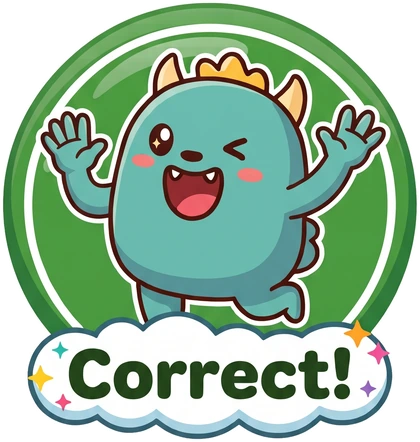
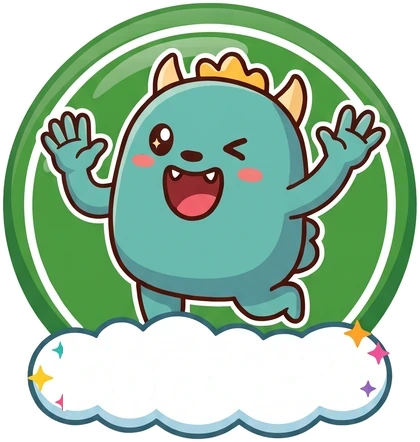
Right and wrong: the app writes the word on the cloud
The pictures' baked-in "Correct!" and "Wrong" are erased (only the
dark letter pixels, so the confetti and sparkles stay). The word is
always drawn by the app in one style, so English, Filipino and Ilokano
look the same instead of a white patch laid over the picture.

Changed region(s): [[0.1238, 0.7647, 0.8357, 0.9412]]

diff --git a/lib/widgets/answer_feedback.dart b/lib/widgets/answer_feedback.dart
@@ -113,20 +113,19 @@ class _AnswerFeedbackState extends State<AnswerFeedback>
   }
 
   /// Right and wrong as the team drew them: the mascot cheering in a green
-  /// circle, or crying in a red one, over a cloud saying "Correct!" or
-  /// "Wrong". In another language the cloud's words are covered with
-  /// [AnswerFeedback.message].
+  /// circle, or crying in a red one, over a cloud with the word on it.
+  ///
+  /// The word is written by the app, not the picture: the pictures' own
+  /// "Correct!" and "Wrong" were erased, so "Tama!", "Kusto!" or "Mali" look
+  /// exactly like the English instead of a patch laid over a picture.
   Widget _pictureBadge(double t) {
     final correct = _isCorrect;
     final asset = correct
         ? 'assets/images/feedback_correct.webp'
         : 'assets/images/feedback_wrong.webp';
-    final baked = correct ? 'correct' : 'wrong';
     final message = widget.message
         .replaceAll(RegExp(r'[^\p{L}\p{N}!? ]', unicode: true), '')
         .trim();
-    final same =
-        message.toLowerCase().replaceAll(RegExp(r'[^a-z]'), '') == baked;
     // Where the words sit on the cloud, as fractions of the picture.
     final label = correct
         ? const Rect.fromLTRB(0.13, 0.77, 0.87, 0.935)
@@ -142,7 +141,7 @@ class _AnswerFeedbackState extends State<AnswerFeedback>
           final w = box.maxWidth, h = box.maxHeight;
           return Stack(children: [
             Positioned.fill(child: Image.asset(asset, fit: BoxFit.contain)),
-            if (!same && message.isNotEmpty)
+            if (message.isNotEmpty)
               Positioned(
                 left: label.left * w,
                 top: label.top * h,
@@ -150,11 +149,7 @@ class _AnswerFeedbackState extends State<AnswerFeedback>
                 height: label.height * h,
                 child: Container(
                   alignment: Alignment.center,
-                  padding: const EdgeInsets.symmetric(horizontal: 6),
-                  decoration: BoxDecoration(
-                    color: Colors.white,
-                    borderRadius: BorderRadius.circular(label.height * h / 2),
-                  ),
+                  padding: const EdgeInsets.symmetric(horizontal: 4),
                   child: FittedBox(
                     fit: BoxFit.scaleDown,
                     child: Text(

diff --git a/test/previews/answer_feedback_preview.dart b/test/previews/answer_feedback_preview.dart
@@ -5,8 +5,8 @@ import 'package:flutter/material.dart';
 import 'package:flutter/services.dart';
 import 'package:flutter_test/flutter_test.dart';
 
-/// Right and wrong, in English (the picture's own words) and in Filipino
-/// (the words laid over the cloud). Not part of the suite — run by hand:
+/// Right and wrong, in English and in Filipino — the app writes the word on
+/// the cloud the same way for both. Not part of the suite — run by hand:
 ///
 ///   flutter test --update-goldens test/previews/answer_feedback_preview.dart
 void main() {
@@ -30,7 +30,7 @@ void main() {
         child: Row(children: [
           cell(AnswerFeedback.correct(message: 'Correct!')),
           cell(AnswerFeedback.wrong(message: 'Wrong')),
-          cell(AnswerFeedback.correct(message: 'Tama')),
+          cell(AnswerFeedback.correct(message: 'Tama!')),
           cell(AnswerFeedback.wrong(message: 'Mali')),
         ]),
       ),
